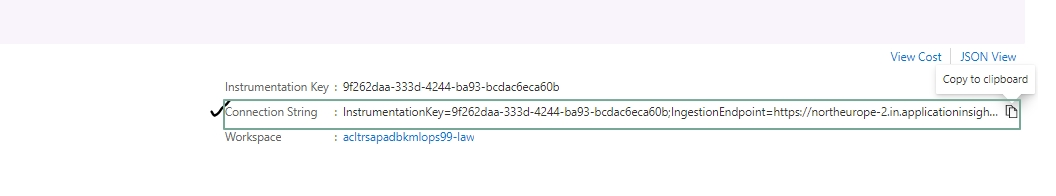
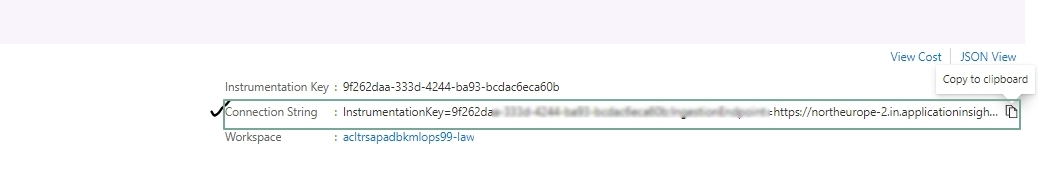
Few edits

Changed region(s): [[0.4688, 0.5204, 0.75, 0.6122]]

diff --git a/README.md b/README.md
@@ -124,13 +124,13 @@ At the end of the secret files creation, the folder structure will like below:
 3. Open the Powershell ISE in your local machine. We are going to run the Powershell script to create the required resources. The name of the resources are basically having a prefix to the resourcegroup name.
 4.set the root path of the Powershell terminal till setup, and execute the deployResource.ps1
  ```
-cd "C:\Users\sapa\OneDrive - Microsoft\Documents\projects\New folder\MLOpsBasic-Databricks\src\setup"
+cd "C:\Users\projects\New folder\MLOpsBasic-Databricks\src\setup"
 .\deployResources.ps1
  ```
 > If you receive the below error, execute the  command [
 Set-ExecutionPolicy RemoteSigned]
 
- ```>.\deployResources.ps1 : File C:\Users\sapa\OneDrive - Microsoft\Documents\projects\New 
+ ```>.\deployResources.ps1 : File C:\Users\projects\New 
 folder\MLOpsBasic-Databricks\src\setup\deployResources.ps1 cannot be loaded because running scripts is disabled on this.
 ```
 
@@ -151,7 +151,7 @@ folder\MLOpsBasic-Databricks\src\setup\deployResources.ps1 cannot be loaded beca
 2.	Run the following command
  
  ```
-cd "C:\Users\sapa\OneDrive - Microsoft\Documents\projects\New folder\MLOpsBasic-Databricks\src\setup"
+cd "C:\Users\projects\New folder\MLOpsBasic-Databricks\src\setup"
  
 .\configureResources.ps1
  ```
@@ -178,7 +178,7 @@ cd "C:\Users\sapa\OneDrive - Microsoft\Documents\projects\New folder\MLOpsBasic-
 - APPI_IK=connection string of the application insight
 - DATABRICKS_HOST=The URL of the databricks workspace.
 - DATABRICKS_TOKEN= Databricks Personal Access Token which was generated in the previous step.
-- DATABRICKS_ORDGID=7936878321001673
+- DATABRICKS_ORDGID=OrgID of the databricks that can be fetched from the databricks URL.
  
 
 <p align="center">
@@ -195,7 +195,7 @@ At the end, our .env file is going to look as below:
  ```
  
 PYTHONPATH=/workspaces/MLOpsBasic-Databricks/src/modules
-APPI_IK=InstrumentationKey=e6221ea6-a3b9-4739-918f-8a0985a1502f;IngestionEndpoint=https://northeurope-2.in.applicationinsights.azure.com/
+APPI_IK=InstrumentationKey=e6221ea6xxxxxxf-8a0985a1502f;IngestionEndpoint=https://northeurope-2.in.applicationinsights.azure.com/
 DATABRICKS_HOST=https://adb-7936878321001673.13.azuredatabricks.net
 DATABRICKS_TOKEN= <Provide the secret>
 DATABRICKS_ORDGID=7936878321001673
